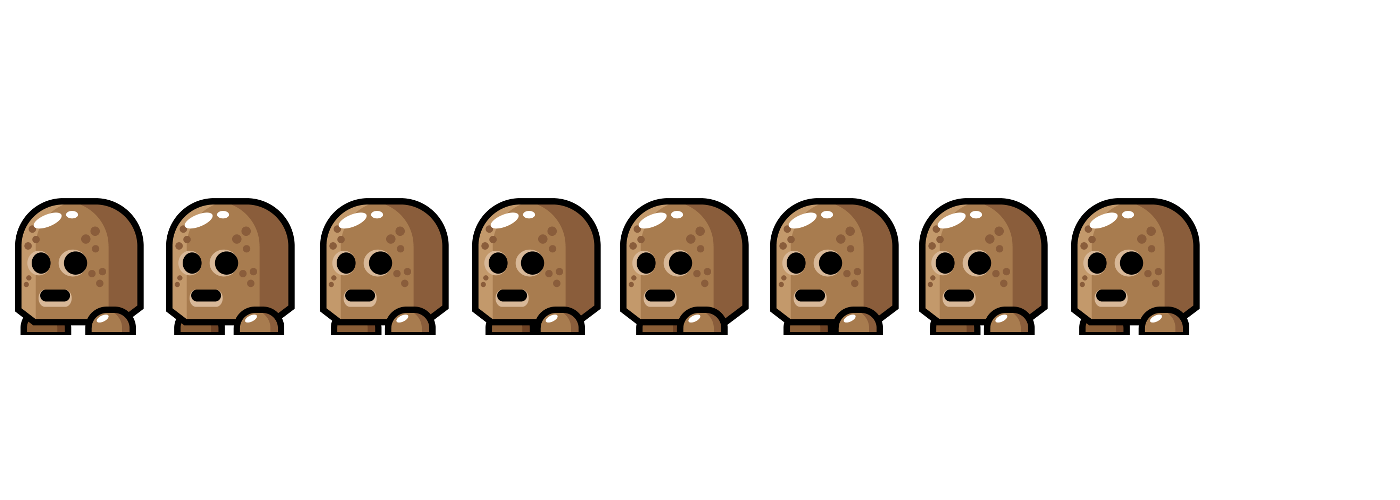
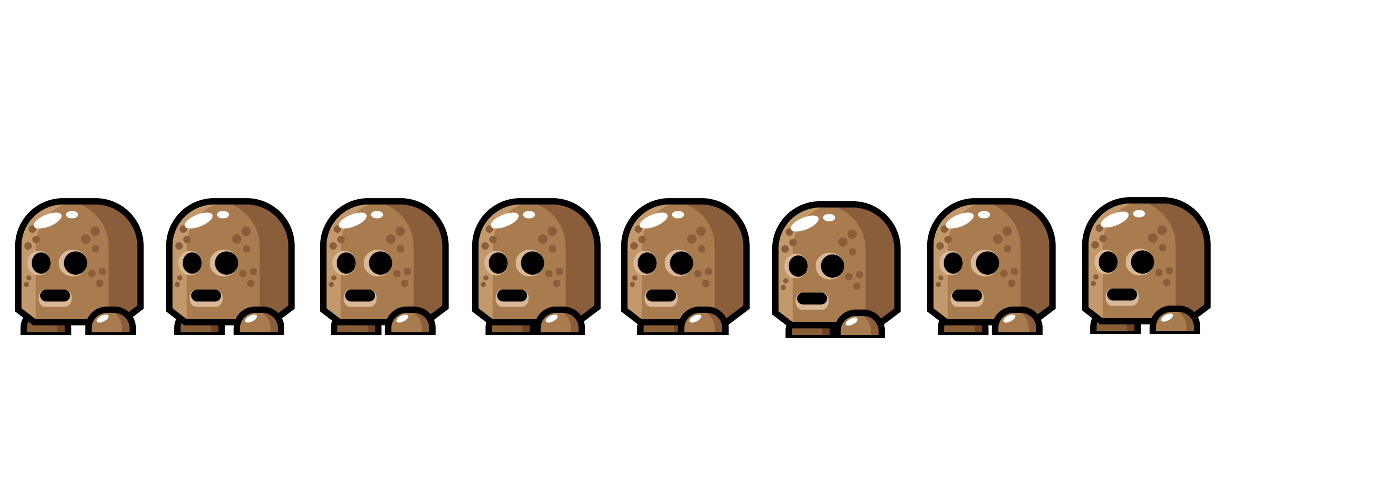
add move enemy

Changed region(s): [[0.5221, 0.39, 0.8907, 0.69], [0.43, 0.45, 0.4607, 0.57], [0.4914, 0.63, 0.5221, 0.66]]

diff --git a/src/game.js b/src/game.js
@@ -8,7 +8,7 @@ import Phaser from 'phaser';
 
 var game = new Phaser.Game(1200, 600, Phaser.CANVAS, 'phaser-example', { preload: preload, create: create, update: update });
 
-var robot, box, woman, player, groupPlatform, platform, coins, plataforma1, plataforma2, plataforma3, roca, tree1, sea1, sea2, enemic;
+var robot, box, woman, player, groupPlatform, platform, coins, plataforma1, plataforma2, plataforma3, roca, tree1, sea1, sea2, enemy;
 var platforms, scoreText, score = 0, laser, mushroom1, mushroom2, jumpButton, cursors, bush1, bush2, bush3, bush4, plataforma4, plataforma5, plataforma6;
 
 function preload() {
@@ -37,6 +37,7 @@ function create() {
 function update() {
   _checkForCollisions();
   _moveWithCursos();
+  _loadMoveEnemy();
 }
 
 function _loadSprites() {
@@ -65,7 +66,7 @@ function _loadSprites() {
   game.load.image('bush4', 'src/assets/shared/Bush_4.png');
   game.load.image('sea', 'src/assets/shared/17.png');
   game.load.image('sea1', 'src/assets/shared/18.png');
-  game.load.spritesheet('enemic', 'src/assets/shared/enemic.png', 150, 500);
+  game.load.spritesheet('enemy', 'src/assets/shared/enemic.png', 152, 450);
 }
 
 function _loadComponents() {
@@ -204,7 +205,6 @@ function _loadBackgroundElements() {
   roca = game.add.sprite(220, 497, "roca");
 
   //* TREE
-
   tree1 = game.add.sprite(600, 508, "tree1");
 
   //** Mushroom
@@ -221,20 +221,78 @@ function _loadBackgroundElements() {
 
 
 }
+var limit = false;
+
 function _loadEnemy() {
-  // ENEMIC
+  // ENEMY
+  enemy = game.add.sprite(900, 418, "enemy");
+  game.physics.arcade.enable(enemy);
 
-  enemic  =  game.add.sprite(900,  418,  "enemic");
-  enemic.width  =  70;
-  enemic.height  =  200;
-  game.physics.arcade.enable(enemic);
-  // enemic.body.bounce.y = 0.2;
-  // enemic.body.gravity.y = 300;
-  // enemic.body.collideWorldBounds = true;
 
-  enemic.animations.add('a', [0,  1,  2,  3,  4,  5,  6,  7],  10,  true);
-  enemic.animations.play("a");
+  enemy.enableBody = true;
+
+
+
+  enemy.width = 70;
+  enemy.height = 200;
+
+  enemy.body.bounce.y = 0.5;
+  enemy.body.gravity.y = 300;
+  enemy.body.collideWorldBounds = true;
+
+
+  enemy.animations.add('idle', [0, 1, 2, 3, 4, 5, 6, 7], 30, true);
+  enemy.animations.play("idle");
+  //Moviment
+  // var tween = game.add.tween(enemy).to({
+  //   x: 500
+  // }, 6000, Phaser.Easing.Linear.None, true, 0, 800, true);
+  // tween.
+
+  _loadMoveEnemy();
+
+  enemy.x = 200;
+  enemy.y = 502;
+
 }
+
+function _loadMoveEnemy() {
+  if (enemy.x === 900) {
+    enemy.scale.x = 0.5;
+    enemy.width = 70;
+
+    var tween = game.add.tween(enemy).to({ x: 500 }, 6000, Phaser.Easing.Linear.None, true);
+  } else if (enemy.x === 500) {
+
+    enemy.scale.x = -0.5;
+
+    var tween = game.add.tween(enemy).to({ x: 900 }, 6000, Phaser.Easing.Linear.None, true);
+  }
+
+}
+
+
+
+/*
+function aliensCreation() {
+
+for (var y = 0; y < 3; y++) {
+for (var x = 0; x < 4; x++) {
+var alien = aliens.create(x * 48, y * 50, 'alienEnemy');
+alien.anchor.setTo(0.5, 0.5);
+alien.animations.add('fly', [0, 1, 2, 3], 20, true);
+alien.play('fly');
+alien.body.moves = false;
+}
+}
+
+aliens.x = 100;
+aliens.y = 50;
+
+var tween = game.add.tween(aliens).to({ x: 200 }, 2000, Phaser.Easing.Linear.None, true, 0, 1000, true);
+
+//tween.onLoop.add(descend, this);
+} */
 
 function collectCoins(robot, coin) {
 
